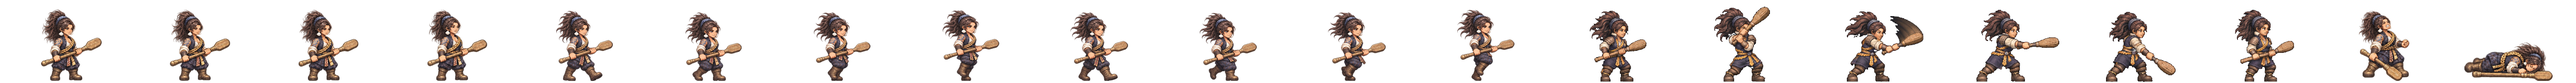
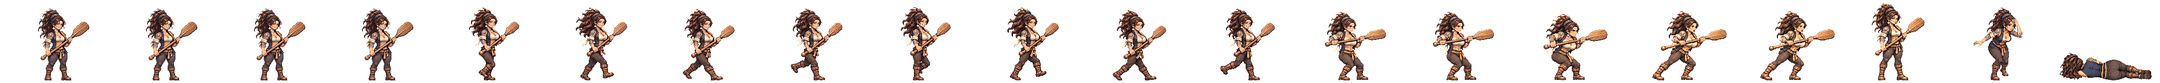
감평 뱃사공 새 전투 띠를 게임에 넣음(서기·걷기·나무 노 찌르기 여덟 칸·쓰러짐·머리띠 고쳐 매기)
띠 검사 합격(걷기 출렁임 경고) · 서기와 찌르기는 가슴 부피가 줄어든 첫 판을 각 한 번 다시 그림 · 공격 끝 칸 키 148 ↔ 서기 138(다시 그린 판이 조금 큼)

Claude-Session: https://claude.ai/code/session_01TRiuN7s6aDfSnaHxrkctmU

Changed region(s): [[0.0, 0.0625, 1.0, 1.0]]

diff --git a/src/realm/data/spritePx.ts b/src/realm/data/spritePx.ts
@@ -1,3 +1,3 @@
 /** public/realm/anim-px/manifest.json 의 사본 — tools/sprite-normalize.mjs 가 만든다 (손으로 고치지 말 것). 칸 [가로, 세로] · feet = 발 줄(칸 위에서 y) · bodyPx = 서 있는 몸 키 */
 import { expandManifest } from './sprite-manifest.ts'
-export const SPRITE_PX: Readonly<Record<string, { readonly cell: readonly [number, number]; readonly feet: number; readonly bodyPx: number; readonly kind: 'general' | 'soldier' | 'folk' | 'crowd'; readonly cells: number }>> = expandManifest<{ readonly cell: readonly [number, number]; readonly feet: number; readonly bodyPx: number; readonly kind: 'general' | 'soldier' | 'folk' | 'crowd'; readonly cells: number }>([{"cell":[166,128],"feet":126,"bodyPx":124,"kind":"soldier","cells":20},{"cell":[116,128],"feet":126,"bodyPx":117,"kind":"soldier","cells":20},{"cell":[127,128],"feet":126,"bodyPx":116,"kind":"soldier","cells":20},{"cell":[269,128],"feet":126,"bodyPx":126,"kind":"soldier","cells":20},{"cell":[503,128],"feet":126,"bodyPx":127,"kind":"soldier","cells":20},{"cell":[614,128],"feet":126,"bodyPx":126,"kind":"soldier","cells":20},{"cell":[200,160],"feet":156,"bodyPx":138,"kind":"general","cells":20},{"cell":[208,160],"feet":155,"bodyPx":138,"kind":"general","cells":20},{"cell":[208,160],"feet":154,"bodyPx":138,"kind":"general","cells":20},{"cell":[304,160],"feet":155,"bodyPx":135,"kind":"general","cells":20},{"cell":[224,160],"feet":156,"bodyPx":139,"kind":"general","cells":20},{"cell":[184,160],"feet":156,"bodyPx":138,"kind":"general","cells":20},{"cell":[208,160],"feet":154,"bodyPx":136,"kind":"general","cells":20},{"cell":[240,160],"feet":156,"bodyPx":138,"kind":"general","cells":20},{"cell":[232,160],"feet":156,"bodyPx":138,"kind":"general","cells":20},{"cell":[208,160],"feet":156,"bodyPx":138,"kind":"general","cells":20},{"cell":[168,160],"feet":156,"bodyPx":138,"kind":"general","cells":20},{"cell":[192,160],"feet":156,"bodyPx":138,"kind":"general","cells":20},{"cell":[168,160],"feet":156,"bodyPx":124,"kind":"general","cells":20},{"cell":[216,160],"feet":156,"bodyPx":130,"kind":"general","cells":20},{"cell":[200,160],"feet":156,"bodyPx":116,"kind":"general","cells":20},{"cell":[200,160],"feet":156,"bodyPx":135,"kind":"general","cells":20},{"cell":[280,160],"feet":156,"bodyPx":138,"kind":"general","cells":20},{"cell":[232,160],"feet":155,"bodyPx":138,"kind":"general","cells":20},{"cell":[232,160],"feet":156,"bodyPx":134,"kind":"general","cells":20},{"cell":[144,160],"feet":156,"bodyPx":70,"kind":"general","cells":20},{"cell":[208,160],"feet":156,"bodyPx":70,"kind":"general","cells":20},{"cell":[192,160],"feet":156,"bodyPx":70,"kind":"general","cells":20},{"cell":[240,160],"feet":155,"bodyPx":138,"kind":"general","cells":20},{"cell":[160,160],"feet":156,"bodyPx":135,"kind":"general","cells":20},{"cell":[192,160],"feet":156,"bodyPx":128,"kind":"general","cells":20},{"cell":[224,160],"feet":155,"bodyPx":138,"kind":"general","cells":20},{"cell":[232,160],"feet":156,"bodyPx":139,"kind":"general","cells":20},{"cell":[216,160],"feet":156,"bodyPx":138,"kind":"general","cells":20},{"cell":[208,160],"feet":156,"bodyPx":134,"kind":"general","cells":20},{"cell":[176,160],"feet":156,"bodyPx":130,"kind":"general","cells":20},{"cell":[248,160],"feet":156,"bodyPx":138,"kind":"general","cells":20},{"cell":[248,160],"feet":155,"bodyPx":138,"kind":"general","cells":20},{"cell":[192,160],"feet":155,"bodyPx":138,"kind":"general","cells":20},{"cell":[192,160],"feet":156,"bodyPx":124,"kind":"general","cells":20},{"cell":[208,160],"feet":154,"bodyPx":131,"kind":"general","cells":20},{"cell":[256,160],"feet":156,"bodyPx":138,"kind":"general","cells":20},{"cell":[232,160],"feet":156,"bodyPx":73,"kind":"general","cells":20},{"cell":[256,160],"feet":155,"bodyPx":138,"kind":"general","cells":20},{"cell":[264,160],"feet":156,"bodyPx":138,"kind":"general","cells":20},{"cell":[224,160],"feet":156,"bodyPx":138,"kind":"general","cells":20},{"cell":[224,160],"feet":156,"bodyPx":128,"kind":"general","cells":20},{"cell":[176,160],"feet":156,"bodyPx":129,"kind":"general","cells":20},{"cell":[208,160],"feet":154,"bodyPx":139,"kind":"general","cells":20},{"cell":[208,160],"feet":156,"bodyPx":132,"kind":"general","cells":20},{"cell":[216,160],"feet":155,"bodyPx":138,"kind":"general","cells":20},{"cell":[184,160],"feet":156,"bodyPx":122,"kind":"general","cells":20},{"cell":[176,160],"feet":156,"bodyPx":138,"kind":"general","cells":20},{"cell":[280,160],"feet":155,"bodyPx":133,"kind":"general","cells":20},{"cell":[176,160],"feet":156,"bodyPx":70,"kind":"general","cells":20},{"cell":[186,128],"feet":126,"bodyPx":127,"kind":"soldier","cells":20},{"cell":[298,128],"feet":126,"bodyPx":126,"kind":"soldier","cells":20},{"cell":[82,128],"feet":126,"bodyPx":114,"kind":"folk","cells":8},{"cell":[134,128],"feet":126,"bodyPx":119,"kind":"soldier","cells":20},{"cell":[380,128],"feet":126,"bodyPx":124,"kind":"soldier","cells":20},{"cell":[114,128],"feet":126,"bodyPx":115,"kind":"soldier","cells":20},{"cell":[122,128],"feet":126,"bodyPx":114,"kind":"soldier","cells":20},{"cell":[254,128],"feet":126,"bodyPx":128,"kind":"soldier","cells":20},{"cell":[438,128],"feet":126,"bodyPx":126,"kind":"soldier","cells":20},{"cell":[88,128],"feet":126,"bodyPx":113,"kind":"folk","cells":8},{"cell":[100,128],"feet":126,"bodyPx":115,"kind":"folk","cells":8},{"cell":[108,128],"feet":126,"bodyPx":115,"kind":"folk","cells":8},{"cell":[63,128],"feet":126,"bodyPx":113,"kind":"folk","cells":8},{"cell":[69,96],"feet":96,"bodyPx":96,"kind":"crowd","cells":1},{"cell":[54,96],"feet":96,"bodyPx":96,"kind":"crowd","cells":1},{"cell":[47,96],"feet":96,"bodyPx":96,"kind":"crowd","cells":1},{"cell":[49,96],"feet":96,"bodyPx":96,"kind":"crowd","cells":1},{"cell":[57,96],"feet":96,"bodyPx":96,"kind":"crowd","cells":1},{"cell":[55,96],"feet":96,"bodyPx":96,"kind":"crowd","cells":1},{"cell":[45,96],"feet":96,"bodyPx":96,"kind":"crowd","cells":1},{"cell":[53,96],"feet":96,"bodyPx":96,"kind":"crowd","cells":1},{"cell":[64,96],"feet":96,"bodyPx":96,"kind":"crowd","cells":1},{"cell":[184,160],"feet":156,"bodyPx":124,"kind":"general","cells":20},{"cell":[184,160],"feet":156,"bodyPx":134,"kind":"general","cells":20},{"cell":[224,160],"feet":156,"bodyPx":133,"kind":"general","cells":20},{"cell":[192,160],"feet":156,"bodyPx":135,"kind":"general","cells":20},{"cell":[184,160],"feet":156,"bodyPx":137,"kind":"general","cells":20},{"cell":[216,160],"feet":156,"bodyPx":134,"kind":"general","cells":20},{"cell":[216,160],"feet":156,"bodyPx":132,"kind":"general","cells":20},{"cell":[288,160],"feet":156,"bodyPx":138,"kind":"general","cells":20},{"cell":[192,160],"feet":156,"bodyPx":118,"kind":"general","cells":20},{"cell":[192,160],"feet":156,"bodyPx":134,"kind":"general","cells":20},{"cell":[192,160],"feet":157,"bodyPx":139,"kind":"general","cells":20},{"cell":[184,160],"feet":156,"bodyPx":128,"kind":"general","cells":20},{"cell":[240,160],"feet":156,"bodyPx":128,"kind":"general","cells":20},{"cell":[184,160],"feet":156,"bodyPx":132,"kind":"general","cells":20},{"cell":[208,160],"feet":156,"bodyPx":123,"kind":"general","cells":20},{"cell":[208,160],"feet":154,"bodyPx":137,"kind":"general","cells":20},{"cell":[176,160],"feet":156,"bodyPx":116,"kind":"general","cells":20},{"cell":[272,160],"feet":156,"bodyPx":138,"kind":"general","cells":20},{"cell":[176,160],"feet":156,"bodyPx":122,"kind":"general","cells":20},{"cell":[232,160],"feet":156,"bodyPx":127,"kind":"general","cells":20},{"cell":[176,160],"feet":156,"bodyPx":137,"kind":"general","cells":20},{"cell":[184,160],"feet":156,"bodyPx":133,"kind":"general","cells":20}],[["axe",0],["bandit-chief",1],["bandit-club",2],["boat",3],["bow",4],["crossbow",5],["gen-adogan",6],["gen-alpyeong",7],["gen-ara",8],["gen-areum",8],["gen-aryeong",9],["gen-bakdal",6],["gen-baram",10],["gen-bdanbi",11],["gen-beom",12],["gen-beombal",11],["gen-beomi",13],["gen-bira",14],["gen-biryu",15],["gen-budeul",16],["gen-byeol",17],["gen-daemusin",18],["gen-daeso",19],["gen-dallae2",11],["gen-dalli",11],["gen-damul",20],["gen-danbi",15],["gen-dangung",17],["gen-darae",21],["gen-dokmudeom",7],["gen-duman",22],["gen-eomni",23],["gen-eureum",24],["gen-g-bow",25],["gen-g-spear",26],["gen-g-sword",27],["gen-gaennae",6],["gen-gamsil",28],["gen-gaon",29],["gen-geota",15],["gen-geumbawi",11],["gen-geumha",30],["gen-goeun",15],["gen-gom",31],["gen-gomok",15],["gen-gureum",28],["gen-guryema",17],["gen-gwaeyu",14],["gen-haebi",8],["gen-haedal",6],["gen-haesol",32],["gen-halla",7],["gen-heo",8],["gen-hneoul",11],["gen-hogong",33],["gen-hojin",15],["gen-horselord",34],["gen-hwalmi",35],["gen-hyeokgeose",17],["gen-hyeopbo",6],["gen-irang",15],["gen-jibaekho",36],["gen-jinha",37],["gen-jita",38],["gen-jumong",39],["gen-keundol",7],["gen-maehwa",40],["gen-maenun",17],["gen-malgalgi",41],["gen-mari",13],["gen-maro",36],["gen-maryeo",15],["gen-mdallae",32],["gen-mir",6],["gen-mount",42],["gen-mulbeom",43],["gen-mulsae",33],["gen-musoe",33],["gen-noeul",8],["gen-nuri",44],["gen-ocheongan",45],["gen-odi",8],["gen-odogan",6],["gen-ogan",17],["gen-oi",46],["gen-olddaeso",24],["gen-onjo",47],["gen-pidogan",15],["gen-sagong",48],["gen-sdallae",6],["gen-sincheongan",33],["gen-singwigan",33],["gen-sinneoul",8],["gen-sobeol",23],["gen-soebi",6],["gen-soebo",49],["gen-soenun",36],["gen-sogeumbi",50],["gen-songbi",45],["gen-songyang",51],["gen-sori",52],["gen-soseono",53],["gen-suro",17],["gen-tahae",6],["gen-tneoul",8],["gen-w-bow",25],["gen-w-spear",54],["gen-waechief",15],["gen-wan",33],["gen-yeodogan",15],["gen-yucheongan",15],["gen-yusugan",36],["horse",55],["marine",56],["migrant",57],["militia",58],["pike",59],["pirate-captain",60],["pirate-sword",61],["shield",62],["spear",63],["villager-builder",64],["villager-farmer",65],["villager-porter",66],["villager-woman",67],["crowd-b1",68],["crowd-b2",69],["crowd-b3",70],["crowd-b4",71],["crowd-b5",72],["crowd-b6",73],["crowd-f1",68],["crowd-f2",73],["crowd-f3",74],["crowd-f4",75],["crowd-f5",68],["crowd-f6",76],["gen-dalbit",15],["gen-base-g-07-drunk-warrior",17],["gen-base-g-40-anya-adan",15],["gen-base-w-13-young-archer",8],["gen-base-g-03-sea-trader",13],["gen-base-w-10-pirate-captain",48],["gen-base-w-64-miri-dallae",48],["gen-base-g-41-goja-bau",13],["gen-base-g-42-dokro-garam",44],["gen-base-g-09-farmer-conscript",33],["gen-base-w-02-goguryeo-lady",33],["gen-base-w-17-mahan-pearl-diver",8],["gen-base-g-17-saro-isageum",49],["gen-base-g-18-daegaya-king",77],["gen-base-g-35-dabeol-dalgu",15],["gen-base-g-19-sabeol-veteran",33],["gen-base-w-23-usisan-whale-queen",8],["gen-base-g-36-gammun-gamdol",45],["gen-base-g-20-samul-sea-lord",41],["gen-base-g-37-eumjeup-jeup",11],["gen-base-g-38-chopal-palmae",17],["gen-base-w-75-daegaya-soemoe",17],["gen-base-g-45-dabeol-deulgae",11],["gen-base-g-04-jinhan-giant",15],["gen-base-g-08-veteran",15],["gen-base-w-18-jinhan-salt-widow",15],["gen-base-w-12-court-dancer",78],["gen-base-w-83-gyeonji-beodeul",79],["gen-base-w-05-baekje-queen",80],["gen-base-w-21-baekje-court-dancer",11],["gen-base-g-01-master-smith",81],["gen-base-g-93-jomun-solgae",35],["gen-base-g-57-bihwa-neup",13],["gen-base-w-72-eumjeup-beol",8],["gen-base-w-102-garak-dana",33],["gen-base-g-68-baekje-onnuri",15],["gen-base-w-27-mokji-jinha",6],["gen-base-g-22-ungcheon-gomnae",6],["gen-base-g-23-sangdang-soedal",15],["gen-base-g-24-wansan-onsan",6],["gen-base-g-25-balla-keunmoe",33],["gen-base-g-61-heomcheuk-bawi",33],["gen-base-g-88-wander-soeul",45],["gen-base-w-14-feast-spy",6],["gen-base-g-12-silla-youth",82],["gen-base-w-08-mahan-warrior",8],["gen-base-g-62-beonye-hanul",13],["gen-base-g-63-heomcheuk-beogeum",15],["gen-base-g-84-wander-seoneul",15],["gen-base-w-50-siljik-mulga",33],["gen-base-g-46-uga-nureongso",33],["gen-base-w-80-usan-gangchi",13],["gen-base-g-47-guga-sanyanggae",33],["gen-base-w-76-gampyeong-baetsagong",36],["gen-base-g-05-mahan-chieftain",83],["gen-base-g-58-usan-uhae",15],["gen-base-g-27-maek-maekdol",15],["gen-base-w-53-hwanna-gabi",16],["gen-base-w-29-golpo-janmul",36],["gen-base-g-53-baekje-haeru",6],["gen-base-w-71-yeonna-neoul",13],["gen-base-w-79-yangmaek-solmae",33],["gen-base-w-34-chopal-deulme",44],["gen-base-g-44-maga-malgup",84],["gen-base-w-31-dabeol-dalbit",48],["gen-base-g-51-biryuna-mulgyeol",45],["gen-base-g-48-gwanna-musoe",15],["gen-base-g-32-uga-sodu",14],["gen-base-g-49-goguryeo-sona",85],["gen-base-g-30-gwanna-soemoe",45],["gen-base-g-52-tamna-oreum",11],["gen-base-g-29-yeonna-myeongsol",39],["gen-base-w-56-dongokjeo-sogeum",86],["gen-base-g-54-mokji-mahan",14],["gen-base-g-33-jeoga-metdol",17],["gen-base-w-36-baekje-maena",17],["gen-base-w-38-sangdang-bulmae",6],["gen-base-w-39-gosaburi-galmae",87],["gen-base-w-40-mujin-munui",49],["gen-base-w-41-hwanna-beodeul",88],["gen-base-w-43-uga-nuri",41],["gen-base-w-45-tamna-oreumbi",11],["gen-base-g-60-golbeol-golgae",11],["gen-base-g-61-apdok-ap",33],["gen-base-g-62-gammun-gamnamu",6],["gen-base-g-63-chopal-yeoul",36],["gen-base-g-64-michuhol-sogeumkkun",13],["gen-base-g-65-sangdang-soemangchi",45],["gen-base-g-66-geonma-malbalgup",89],["gen-base-g-67-gosaburi-buri",90],["gen-base-g-68-mujin-bitgoeul",11],["gen-base-g-69-goryong-yong",45],["gen-base-g-70-siljik-pado",13],["gen-base-w-81-byeokjin-byeolbit",14],["gen-base-w-46-geonma-maru",36],["gen-base-w-48-mujin-mudeung",13],["gen-base-g-26-gampyeong-gaetbeol",14],["gen-base-g-60-eupcha-hangyeol",91],["gen-base-g-15-shaman-man",33],["gen-base-g-85-wander-ure",36],["gen-base-g-43-hwanna-amnok",15],["gen-base-g-50-bullae-gwaha",80],["gen-base-g-55-saro-bakdal",15],["gen-base-g-56-haseulla-gwahama",6],["gen-base-w-06-buyeo-huntress",92],["gen-base-w-22-dongye-tiger-huntress",8],["gen-base-w-25-bihwa-priestess",33],["gen-base-w-24-apdok-queen",11],["gen-base-w-61-iseo-sinae",15],["gen-base-w-26-iseo-tomboy-general",8],["gen-base-g-59-yangmaek-maekson",93],["gen-aw1-haebi",45],["gen-aw1-soseono",94],["gen-aw1-gamsil",11],["gen-aw1-mir",52],["gen-aw1-dangung",6],["gen-aw1-ara",45],["gen-aw1-jumong",95],["gen-aw1-onjo",96],["gen-aw1-base-w-83-gyeonji-beodeul",17],["gen-aw1-heo",44],["gen-aw1-base-g-38-chopal-palmae",6],["gen-aw1-base-w-25-bihwa-priestess",78],["gen-aw1-sori",16],["gen-aw1-gomok",6],["gen-aw1-irang",17],["gen-aw1-budeul",16],["gen-aw1-gom",13],["gen-aw1-sdallae",6],["gen-aw1-base-w-13-young-archer",6],["gen-aw1-base-w-36-baekje-maena",97],["gen-aw1-base-g-09-farmer-conscript",44],["gen-aw1-base-w-02-goguryeo-lady",98],["gen-aw1-haedal",11],["gen-aw1-hogong",6],["gen-aw1-maehwa",52],["gen-aw1-base-w-06-buyeo-huntress",14],["gen-aw1-base-w-08-mahan-warrior",45],["gen-aw1-base-w-29-golpo-janmul",45],["gen-aw1-base-w-31-dabeol-dalbit",17],["gen-aw1-base-w-38-sangdang-bulmae",16],["gen-aw1-bira",33],["gen-aw1-base-w-53-hwanna-gabi",16],["gen-aw1-base-w-56-dongokjeo-sogeum",52],["gen-aw1-base-w-72-eumjeup-beol",17],["gen-aw1-bdanbi",16],["gen-aw1-beom",11],["gen-aw1-beombal",11],["gen-aw1-byeol",17],["gen-aw1-dalli",52],["gen-aw1-malgalgi",36],["gen-aw1-sincheongan",33]])
+export const SPRITE_PX: Readonly<Record<string, { readonly cell: readonly [number, number]; readonly feet: number; readonly bodyPx: number; readonly kind: 'general' | 'soldier' | 'folk' | 'crowd'; readonly cells: number }>> = expandManifest<{ readonly cell: readonly [number, number]; readonly feet: number; readonly bodyPx: number; readonly kind: 'general' | 'soldier' | 'folk' | 'crowd'; readonly cells: number }>([{"cell":[166,128],"feet":126,"bodyPx":124,"kind":"soldier","cells":20},{"cell":[116,128],"feet":126,"bodyPx":117,"kind":"soldier","cells":20},{"cell":[127,128],"feet":126,"bodyPx":116,"kind":"soldier","cells":20},{"cell":[269,128],"feet":126,"bodyPx":126,"kind":"soldier","cells":20},{"cell":[503,128],"feet":126,"bodyPx":127,"kind":"soldier","cells":20},{"cell":[614,128],"feet":126,"bodyPx":126,"kind":"soldier","cells":20},{"cell":[200,160],"feet":156,"bodyPx":138,"kind":"general","cells":20},{"cell":[208,160],"feet":155,"bodyPx":138,"kind":"general","cells":20},{"cell":[208,160],"feet":154,"bodyPx":138,"kind":"general","cells":20},{"cell":[304,160],"feet":155,"bodyPx":135,"kind":"general","cells":20},{"cell":[224,160],"feet":156,"bodyPx":139,"kind":"general","cells":20},{"cell":[184,160],"feet":156,"bodyPx":138,"kind":"general","cells":20},{"cell":[208,160],"feet":154,"bodyPx":136,"kind":"general","cells":20},{"cell":[240,160],"feet":156,"bodyPx":138,"kind":"general","cells":20},{"cell":[232,160],"feet":156,"bodyPx":138,"kind":"general","cells":20},{"cell":[208,160],"feet":156,"bodyPx":138,"kind":"general","cells":20},{"cell":[168,160],"feet":156,"bodyPx":138,"kind":"general","cells":20},{"cell":[192,160],"feet":156,"bodyPx":138,"kind":"general","cells":20},{"cell":[168,160],"feet":156,"bodyPx":124,"kind":"general","cells":20},{"cell":[216,160],"feet":156,"bodyPx":130,"kind":"general","cells":20},{"cell":[200,160],"feet":156,"bodyPx":116,"kind":"general","cells":20},{"cell":[200,160],"feet":156,"bodyPx":135,"kind":"general","cells":20},{"cell":[280,160],"feet":156,"bodyPx":138,"kind":"general","cells":20},{"cell":[232,160],"feet":155,"bodyPx":138,"kind":"general","cells":20},{"cell":[232,160],"feet":156,"bodyPx":134,"kind":"general","cells":20},{"cell":[144,160],"feet":156,"bodyPx":70,"kind":"general","cells":20},{"cell":[208,160],"feet":156,"bodyPx":70,"kind":"general","cells":20},{"cell":[192,160],"feet":156,"bodyPx":70,"kind":"general","cells":20},{"cell":[240,160],"feet":155,"bodyPx":138,"kind":"general","cells":20},{"cell":[160,160],"feet":156,"bodyPx":135,"kind":"general","cells":20},{"cell":[192,160],"feet":156,"bodyPx":128,"kind":"general","cells":20},{"cell":[224,160],"feet":155,"bodyPx":138,"kind":"general","cells":20},{"cell":[232,160],"feet":156,"bodyPx":139,"kind":"general","cells":20},{"cell":[216,160],"feet":156,"bodyPx":138,"kind":"general","cells":20},{"cell":[208,160],"feet":156,"bodyPx":134,"kind":"general","cells":20},{"cell":[176,160],"feet":156,"bodyPx":130,"kind":"general","cells":20},{"cell":[248,160],"feet":156,"bodyPx":138,"kind":"general","cells":20},{"cell":[248,160],"feet":155,"bodyPx":138,"kind":"general","cells":20},{"cell":[192,160],"feet":155,"bodyPx":138,"kind":"general","cells":20},{"cell":[192,160],"feet":156,"bodyPx":124,"kind":"general","cells":20},{"cell":[208,160],"feet":154,"bodyPx":131,"kind":"general","cells":20},{"cell":[256,160],"feet":156,"bodyPx":138,"kind":"general","cells":20},{"cell":[232,160],"feet":156,"bodyPx":73,"kind":"general","cells":20},{"cell":[256,160],"feet":155,"bodyPx":138,"kind":"general","cells":20},{"cell":[264,160],"feet":156,"bodyPx":138,"kind":"general","cells":20},{"cell":[224,160],"feet":156,"bodyPx":138,"kind":"general","cells":20},{"cell":[224,160],"feet":156,"bodyPx":128,"kind":"general","cells":20},{"cell":[176,160],"feet":156,"bodyPx":129,"kind":"general","cells":20},{"cell":[208,160],"feet":154,"bodyPx":139,"kind":"general","cells":20},{"cell":[208,160],"feet":156,"bodyPx":132,"kind":"general","cells":20},{"cell":[216,160],"feet":155,"bodyPx":138,"kind":"general","cells":20},{"cell":[184,160],"feet":156,"bodyPx":122,"kind":"general","cells":20},{"cell":[176,160],"feet":156,"bodyPx":138,"kind":"general","cells":20},{"cell":[280,160],"feet":155,"bodyPx":133,"kind":"general","cells":20},{"cell":[176,160],"feet":156,"bodyPx":70,"kind":"general","cells":20},{"cell":[186,128],"feet":126,"bodyPx":127,"kind":"soldier","cells":20},{"cell":[298,128],"feet":126,"bodyPx":126,"kind":"soldier","cells":20},{"cell":[82,128],"feet":126,"bodyPx":114,"kind":"folk","cells":8},{"cell":[134,128],"feet":126,"bodyPx":119,"kind":"soldier","cells":20},{"cell":[380,128],"feet":126,"bodyPx":124,"kind":"soldier","cells":20},{"cell":[114,128],"feet":126,"bodyPx":115,"kind":"soldier","cells":20},{"cell":[122,128],"feet":126,"bodyPx":114,"kind":"soldier","cells":20},{"cell":[254,128],"feet":126,"bodyPx":128,"kind":"soldier","cells":20},{"cell":[438,128],"feet":126,"bodyPx":126,"kind":"soldier","cells":20},{"cell":[88,128],"feet":126,"bodyPx":113,"kind":"folk","cells":8},{"cell":[100,128],"feet":126,"bodyPx":115,"kind":"folk","cells":8},{"cell":[108,128],"feet":126,"bodyPx":115,"kind":"folk","cells":8},{"cell":[63,128],"feet":126,"bodyPx":113,"kind":"folk","cells":8},{"cell":[69,96],"feet":96,"bodyPx":96,"kind":"crowd","cells":1},{"cell":[54,96],"feet":96,"bodyPx":96,"kind":"crowd","cells":1},{"cell":[47,96],"feet":96,"bodyPx":96,"kind":"crowd","cells":1},{"cell":[49,96],"feet":96,"bodyPx":96,"kind":"crowd","cells":1},{"cell":[57,96],"feet":96,"bodyPx":96,"kind":"crowd","cells":1},{"cell":[55,96],"feet":96,"bodyPx":96,"kind":"crowd","cells":1},{"cell":[45,96],"feet":96,"bodyPx":96,"kind":"crowd","cells":1},{"cell":[53,96],"feet":96,"bodyPx":96,"kind":"crowd","cells":1},{"cell":[64,96],"feet":96,"bodyPx":96,"kind":"crowd","cells":1},{"cell":[184,160],"feet":156,"bodyPx":124,"kind":"general","cells":20},{"cell":[184,160],"feet":156,"bodyPx":134,"kind":"general","cells":20},{"cell":[224,160],"feet":156,"bodyPx":133,"kind":"general","cells":20},{"cell":[192,160],"feet":156,"bodyPx":135,"kind":"general","cells":20},{"cell":[184,160],"feet":156,"bodyPx":137,"kind":"general","cells":20},{"cell":[216,160],"feet":156,"bodyPx":134,"kind":"general","cells":20},{"cell":[216,160],"feet":156,"bodyPx":132,"kind":"general","cells":20},{"cell":[288,160],"feet":156,"bodyPx":138,"kind":"general","cells":20},{"cell":[192,160],"feet":156,"bodyPx":118,"kind":"general","cells":20},{"cell":[192,160],"feet":156,"bodyPx":134,"kind":"general","cells":20},{"cell":[192,160],"feet":157,"bodyPx":139,"kind":"general","cells":20},{"cell":[184,160],"feet":156,"bodyPx":128,"kind":"general","cells":20},{"cell":[240,160],"feet":156,"bodyPx":128,"kind":"general","cells":20},{"cell":[184,160],"feet":156,"bodyPx":132,"kind":"general","cells":20},{"cell":[208,160],"feet":156,"bodyPx":123,"kind":"general","cells":20},{"cell":[208,160],"feet":154,"bodyPx":137,"kind":"general","cells":20},{"cell":[176,160],"feet":156,"bodyPx":116,"kind":"general","cells":20},{"cell":[272,160],"feet":156,"bodyPx":138,"kind":"general","cells":20},{"cell":[176,160],"feet":156,"bodyPx":122,"kind":"general","cells":20},{"cell":[232,160],"feet":156,"bodyPx":127,"kind":"general","cells":20},{"cell":[176,160],"feet":156,"bodyPx":137,"kind":"general","cells":20},{"cell":[184,160],"feet":156,"bodyPx":133,"kind":"general","cells":20}],[["axe",0],["bandit-chief",1],["bandit-club",2],["boat",3],["bow",4],["crossbow",5],["gen-adogan",6],["gen-alpyeong",7],["gen-ara",8],["gen-areum",8],["gen-aryeong",9],["gen-bakdal",6],["gen-baram",10],["gen-bdanbi",11],["gen-beom",12],["gen-beombal",11],["gen-beomi",13],["gen-bira",14],["gen-biryu",15],["gen-budeul",16],["gen-byeol",17],["gen-daemusin",18],["gen-daeso",19],["gen-dallae2",11],["gen-dalli",11],["gen-damul",20],["gen-danbi",15],["gen-dangung",17],["gen-darae",21],["gen-dokmudeom",7],["gen-duman",22],["gen-eomni",23],["gen-eureum",24],["gen-g-bow",25],["gen-g-spear",26],["gen-g-sword",27],["gen-gaennae",6],["gen-gamsil",28],["gen-gaon",29],["gen-geota",15],["gen-geumbawi",11],["gen-geumha",30],["gen-goeun",15],["gen-gom",31],["gen-gomok",15],["gen-gureum",28],["gen-guryema",17],["gen-gwaeyu",14],["gen-haebi",8],["gen-haedal",6],["gen-haesol",32],["gen-halla",7],["gen-heo",8],["gen-hneoul",11],["gen-hogong",33],["gen-hojin",15],["gen-horselord",34],["gen-hwalmi",35],["gen-hyeokgeose",17],["gen-hyeopbo",6],["gen-irang",15],["gen-jibaekho",36],["gen-jinha",37],["gen-jita",38],["gen-jumong",39],["gen-keundol",7],["gen-maehwa",40],["gen-maenun",17],["gen-malgalgi",41],["gen-mari",13],["gen-maro",36],["gen-maryeo",15],["gen-mdallae",32],["gen-mir",6],["gen-mount",42],["gen-mulbeom",43],["gen-mulsae",33],["gen-musoe",33],["gen-noeul",8],["gen-nuri",44],["gen-ocheongan",45],["gen-odi",8],["gen-odogan",6],["gen-ogan",17],["gen-oi",46],["gen-olddaeso",24],["gen-onjo",47],["gen-pidogan",15],["gen-sagong",48],["gen-sdallae",6],["gen-sincheongan",33],["gen-singwigan",33],["gen-sinneoul",8],["gen-sobeol",23],["gen-soebi",6],["gen-soebo",49],["gen-soenun",36],["gen-sogeumbi",50],["gen-songbi",45],["gen-songyang",51],["gen-sori",52],["gen-soseono",53],["gen-suro",17],["gen-tahae",6],["gen-tneoul",8],["gen-w-bow",25],["gen-w-spear",54],["gen-waechief",15],["gen-wan",33],["gen-yeodogan",15],["gen-yucheongan",15],["gen-yusugan",36],["horse",55],["marine",56],["migrant",57],["militia",58],["pike",59],["pirate-captain",60],["pirate-sword",61],["shield",62],["spear",63],["villager-builder",64],["villager-farmer",65],["villager-porter",66],["villager-woman",67],["crowd-b1",68],["crowd-b2",69],["crowd-b3",70],["crowd-b4",71],["crowd-b5",72],["crowd-b6",73],["crowd-f1",68],["crowd-f2",73],["crowd-f3",74],["crowd-f4",75],["crowd-f5",68],["crowd-f6",76],["gen-dalbit",15],["gen-base-g-07-drunk-warrior",17],["gen-base-g-40-anya-adan",15],["gen-base-w-13-young-archer",8],["gen-base-g-03-sea-trader",13],["gen-base-w-10-pirate-captain",48],["gen-base-w-64-miri-dallae",48],["gen-base-g-41-goja-bau",13],["gen-base-g-42-dokro-garam",44],["gen-base-g-09-farmer-conscript",33],["gen-base-w-02-goguryeo-lady",33],["gen-base-w-17-mahan-pearl-diver",8],["gen-base-g-17-saro-isageum",49],["gen-base-g-18-daegaya-king",77],["gen-base-g-35-dabeol-dalgu",15],["gen-base-g-19-sabeol-veteran",33],["gen-base-w-23-usisan-whale-queen",8],["gen-base-g-36-gammun-gamdol",45],["gen-base-g-20-samul-sea-lord",41],["gen-base-g-37-eumjeup-jeup",11],["gen-base-g-38-chopal-palmae",17],["gen-base-w-75-daegaya-soemoe",17],["gen-base-g-45-dabeol-deulgae",11],["gen-base-g-04-jinhan-giant",15],["gen-base-g-08-veteran",15],["gen-base-w-18-jinhan-salt-widow",15],["gen-base-w-12-court-dancer",78],["gen-base-w-83-gyeonji-beodeul",79],["gen-base-w-05-baekje-queen",80],["gen-base-w-21-baekje-court-dancer",11],["gen-base-g-01-master-smith",81],["gen-base-g-93-jomun-solgae",35],["gen-base-g-57-bihwa-neup",13],["gen-base-w-72-eumjeup-beol",8],["gen-base-w-102-garak-dana",33],["gen-base-g-68-baekje-onnuri",15],["gen-base-w-27-mokji-jinha",6],["gen-base-g-22-ungcheon-gomnae",6],["gen-base-g-23-sangdang-soedal",15],["gen-base-g-24-wansan-onsan",6],["gen-base-g-25-balla-keunmoe",33],["gen-base-g-61-heomcheuk-bawi",33],["gen-base-g-88-wander-soeul",45],["gen-base-w-14-feast-spy",6],["gen-base-g-12-silla-youth",82],["gen-base-w-08-mahan-warrior",8],["gen-base-g-62-beonye-hanul",13],["gen-base-g-63-heomcheuk-beogeum",15],["gen-base-g-84-wander-seoneul",15],["gen-base-w-50-siljik-mulga",33],["gen-base-g-46-uga-nureongso",33],["gen-base-w-80-usan-gangchi",13],["gen-base-g-47-guga-sanyanggae",33],["gen-base-w-76-gampyeong-baetsagong",8],["gen-base-g-05-mahan-chieftain",83],["gen-base-g-58-usan-uhae",15],["gen-base-g-27-maek-maekdol",15],["gen-base-w-53-hwanna-gabi",16],["gen-base-w-29-golpo-janmul",36],["gen-base-g-53-baekje-haeru",6],["gen-base-w-71-yeonna-neoul",13],["gen-base-w-79-yangmaek-solmae",33],["gen-base-w-34-chopal-deulme",44],["gen-base-g-44-maga-malgup",84],["gen-base-w-31-dabeol-dalbit",48],["gen-base-g-51-biryuna-mulgyeol",45],["gen-base-g-48-gwanna-musoe",15],["gen-base-g-32-uga-sodu",14],["gen-base-g-49-goguryeo-sona",85],["gen-base-g-30-gwanna-soemoe",45],["gen-base-g-52-tamna-oreum",11],["gen-base-g-29-yeonna-myeongsol",39],["gen-base-w-56-dongokjeo-sogeum",86],["gen-base-g-54-mokji-mahan",14],["gen-base-g-33-jeoga-metdol",17],["gen-base-w-36-baekje-maena",17],["gen-base-w-38-sangdang-bulmae",6],["gen-base-w-39-gosaburi-galmae",87],["gen-base-w-40-mujin-munui",49],["gen-base-w-41-hwanna-beodeul",88],["gen-base-w-43-uga-nuri",41],["gen-base-w-45-tamna-oreumbi",11],["gen-base-g-60-golbeol-golgae",11],["gen-base-g-61-apdok-ap",33],["gen-base-g-62-gammun-gamnamu",6],["gen-base-g-63-chopal-yeoul",36],["gen-base-g-64-michuhol-sogeumkkun",13],["gen-base-g-65-sangdang-soemangchi",45],["gen-base-g-66-geonma-malbalgup",89],["gen-base-g-67-gosaburi-buri",90],["gen-base-g-68-mujin-bitgoeul",11],["gen-base-g-69-goryong-yong",45],["gen-base-g-70-siljik-pado",13],["gen-base-w-81-byeokjin-byeolbit",14],["gen-base-w-46-geonma-maru",36],["gen-base-w-48-mujin-mudeung",13],["gen-base-g-26-gampyeong-gaetbeol",14],["gen-base-g-60-eupcha-hangyeol",91],["gen-base-g-15-shaman-man",33],["gen-base-g-85-wander-ure",36],["gen-base-g-43-hwanna-amnok",15],["gen-base-g-50-bullae-gwaha",80],["gen-base-g-55-saro-bakdal",15],["gen-base-g-56-haseulla-gwahama",6],["gen-base-w-06-buyeo-huntress",92],["gen-base-w-22-dongye-tiger-huntress",8],["gen-base-w-25-bihwa-priestess",33],["gen-base-w-24-apdok-queen",11],["gen-base-w-61-iseo-sinae",15],["gen-base-w-26-iseo-tomboy-general",8],["gen-base-g-59-yangmaek-maekson",93],["gen-aw1-haebi",45],["gen-aw1-soseono",94],["gen-aw1-gamsil",11],["gen-aw1-mir",52],["gen-aw1-dangung",6],["gen-aw1-ara",45],["gen-aw1-jumong",95],["gen-aw1-onjo",96],["gen-aw1-base-w-83-gyeonji-beodeul",17],["gen-aw1-heo",44],["gen-aw1-base-g-38-chopal-palmae",6],["gen-aw1-base-w-25-bihwa-priestess",78],["gen-aw1-sori",16],["gen-aw1-gomok",6],["gen-aw1-irang",17],["gen-aw1-budeul",16],["gen-aw1-gom",13],["gen-aw1-sdallae",6],["gen-aw1-base-w-13-young-archer",6],["gen-aw1-base-w-36-baekje-maena",97],["gen-aw1-base-g-09-farmer-conscript",44],["gen-aw1-base-w-02-goguryeo-lady",98],["gen-aw1-haedal",11],["gen-aw1-hogong",6],["gen-aw1-maehwa",52],["gen-aw1-base-w-06-buyeo-huntress",14],["gen-aw1-base-w-08-mahan-warrior",45],["gen-aw1-base-w-29-golpo-janmul",45],["gen-aw1-base-w-31-dabeol-dalbit",17],["gen-aw1-base-w-38-sangdang-bulmae",16],["gen-aw1-bira",33],["gen-aw1-base-w-53-hwanna-gabi",16],["gen-aw1-base-w-56-dongokjeo-sogeum",52],["gen-aw1-base-w-72-eumjeup-beol",17],["gen-aw1-bdanbi",16],["gen-aw1-beom",11],["gen-aw1-beombal",11],["gen-aw1-byeol",17],["gen-aw1-dalli",52],["gen-aw1-malgalgi",36],["gen-aw1-sincheongan",33]])

diff --git a/src/duel/view.ts b/src/duel/view.ts
@@ -100,7 +100,7 @@ const crowdFront = [1, 2, 3, 4, 5, 6].map((i) => img(`realm/duel/crowd/b${i}.png
 const crowdReady = (set: HTMLImageElement[]): boolean => set.every((im) => im.complete && im.naturalWidth > 0)
 const pxMode = cfg.px !== false && params.get('px') !== '0'
 /** 겨루기 전용 옛 띠(duel/sprites) 대신 열전과 같은 도트 띠(anim-px)를 쓰는 장수 — 두 판에서 같은 모습 · 서기 계획·쓰러지는 칸도 같다 (11-23 범 · 매화 · 달빛 · 11-24 해비 · 아룸) */
-const PX_DUEL: ReadonlySet<string> = new Set(['beom', 'maehwa', 'base-w-31-dabeol-dalbit', 'haebi', 'areum', 'base-w-13-young-archer', 'base-w-10-pirate-captain', 'base-w-17-mahan-pearl-diver', 'base-w-06-buyeo-huntress', 'base-w-64-miri-dallae', 'ara', 'base-w-22-dongye-tiger-huntress', 'noeul', 'sagong', 'sinneoul', 'heo', 'base-w-08-mahan-warrior', 'base-w-23-usisan-whale-queen', 'base-w-26-iseo-tomboy-general', 'base-w-72-eumjeup-beol', 'tneoul', 'odi'])
+const PX_DUEL: ReadonlySet<string> = new Set(['beom', 'maehwa', 'base-w-31-dabeol-dalbit', 'haebi', 'areum', 'base-w-13-young-archer', 'base-w-10-pirate-captain', 'base-w-17-mahan-pearl-diver', 'base-w-06-buyeo-huntress', 'base-w-64-miri-dallae', 'ara', 'base-w-22-dongye-tiger-huntress', 'noeul', 'sagong', 'sinneoul', 'heo', 'base-w-08-mahan-warrior', 'base-w-23-usisan-whale-queen', 'base-w-26-iseo-tomboy-general', 'base-w-72-eumjeup-beol', 'tneoul', 'odi', 'base-w-76-gampyeong-baetsagong'])
 /** 띠 그림 — 기본은 anim-px(도트 규격) 먼저, 없으면 옛 띠로 (img 의 onerror 가 갈아 끼운다) */
 const strip = (s: string): HTMLImageElement => pxMode
   ? DUEL_ATLASES[s] !== undefined && !PX_DUEL.has(s) ? img(`realm/duel/sprites/gen-${s}.png`, `realm/anim-px/gen-${s}.png`)

diff --git a/src/tune/params.ts b/src/tune/params.ts
@@ -1441,6 +1441,7 @@ export const HAEBI_IDLE = {
     'base-w-72-eumjeup-beol': { cells: 34, base: [0, 1], hold: 2.4, fall: [18, 20, 21, 19], quirk: [22, 23, 24, 25], quirkTimes: [.3, .32, .4, .28], attack: { cells: [26, 27, 28, 29, 30, 31, 32, 33], times: [.09, .08, .11, .05, .15, .07, .08, .12], hit: 4 }, xGeom: { h: 224, root: 92, foot: 216 } },
     tneoul: { cells: 34, base: [0, 1], hold: 2.4, fall: [18, 20, 21, 19], quirk: [22, 23, 24, 25], quirkTimes: [.3, .32, .4, .28], attack: { cells: [26, 27, 28, 29, 30, 31, 32, 33], times: [.09, .08, .11, .05, .15, .07, .08, .12], hit: 4 }, xGeom: { h: 224, root: 92, foot: 216 } },
     odi: { cells: 34, base: [0, 1], hold: 2.4, fall: [18, 20, 21, 19], quirk: [22, 23, 24, 25], quirkTimes: [.3, .32, .4, .28], attack: { cells: [26, 27, 28, 29, 30, 31, 32, 33], times: [.09, .08, .11, .05, .15, .07, .08, .12], hit: 4 }, xGeom: { h: 224, root: 92, foot: 216 } },
+    'base-w-76-gampyeong-baetsagong': { cells: 34, base: [0, 1], hold: 2.4, fall: [18, 20, 21, 19], quirk: [22, 23, 24, 25], quirkTimes: [.3, .32, .4, .28], attack: { cells: [26, 27, 28, 29, 30, 31, 32, 33], times: [.09, .08, .11, .05, .15, .07, .08, .12], hit: 4 }, xGeom: { h: 224, root: 92, foot: 216 } },
   },
 } as const
 export const HAEBI_ANIM = {

diff --git a/src/raid/hero-hd.ts b/src/raid/hero-hd.ts
@@ -10,7 +10,6 @@ export const HERO_HD: Readonly<Record<string, string>> = {
   'anim-px/gen-base-w-81-byeokjin-byeolbit.png': 'anim-px/gen-base-w-81-byeokjin-byeolbit_hd.png',
   'anim-px/gen-base-w-80-usan-gangchi.png': 'anim-px/gen-base-w-80-usan-gangchi_hd.png',
   'anim-px/gen-base-w-79-yangmaek-solmae.png': 'anim-px/gen-base-w-79-yangmaek-solmae_hd.png',
-  'anim-px/gen-base-w-76-gampyeong-baetsagong.png': 'anim-px/gen-base-w-76-gampyeong-baetsagong_hd.png',
   'anim-px/gen-base-w-75-daegaya-soemoe.png': 'anim-px/gen-base-w-75-daegaya-soemoe_hd.png',
   'anim-px/gen-base-w-71-yeonna-neoul.png': 'anim-px/gen-base-w-71-yeonna-neoul_hd.png',
   'anim-px/gen-base-w-61-iseo-sinae.png': 'anim-px/gen-base-w-61-iseo-sinae_hd.png',

diff --git a/tools/sprite-kit/anim-harness.py b/tools/sprite-kit/anim-harness.py
@@ -52,6 +52,7 @@ HEROES = {
     'tomboy': dict(strip='gen-base-w-26-iseo-tomboy-general', atk='thrust', atk8=True, act=True, legacy=(('a', 2), ('a', 3), ('b', 3), ('b', 4))),   # 이서 말괄량이 장군(창 · 우람한 뼈대)
     'beol': dict(strip='gen-base-w-72-eumjeup-beol', atk='slash', atk8=True, act=True, legacy=(('a', 1), ('a', 3), ('b', 2), ('b', 4))),   # 음즙 벌(한 손 칼 · 우람한 뼈대) · 좁은 칸은 아라처럼 덜 뻗은 칸
     'tneoul': dict(strip='gen-tneoul', atk='thrust', atk8=True, act=True, legacy=(('a', 2), ('a', 3), ('b', 3), ('b', 4)), lock='face'),   # 탐라 너울(두 손 나무 노 · 가슴 L) · 머리 상자 묶기는 b-2 에서 얼굴 자리를 잘못 잡아 머리가 둘이 됐다(11-24) → 얼굴 안쪽만
+    'baetsa': dict(strip='gen-base-w-76-gampyeong-baetsagong', atk='thrust', atk8=True, act=True, legacy=(('a', 2), ('a', 3), ('b', 3), ('b', 4))),   # 감평 뱃사공(두 손 나무 노 · 가슴 XL)
     'odi': dict(strip='gen-odi', atk='thrust', atk8=True, act=True, legacy=(('a', 2), ('a', 3), ('b', 3), ('b', 4))),   # 조문 오디(창 · 가슴 XL)
     'haebi': dict(strip='gen-haebi', atk='chop', atk8=True, act=True),   # act = 공격 여덟 칸이 넓은 동작 칸(240×224 · 뿌리 92 · 발 줄 216)
     'areum': dict(strip='gen-areum', atk='slam', atk8=True, act=True, lock='none'),   # 받은 그림 그대로(얼굴을 떠다 붙이지 않는다 — 11-24: 뭉친 얼굴이 여덟 칸에 퍼졌다) · 옛 lock='face': 메가 머리 뒤로 지나간다 — 머리 상자는 메를 자르고(「포스터」), 윗몸을 통째로 묶으면 떠다닌다(11-24 형) → 얼굴 안쪽만 묶는다
